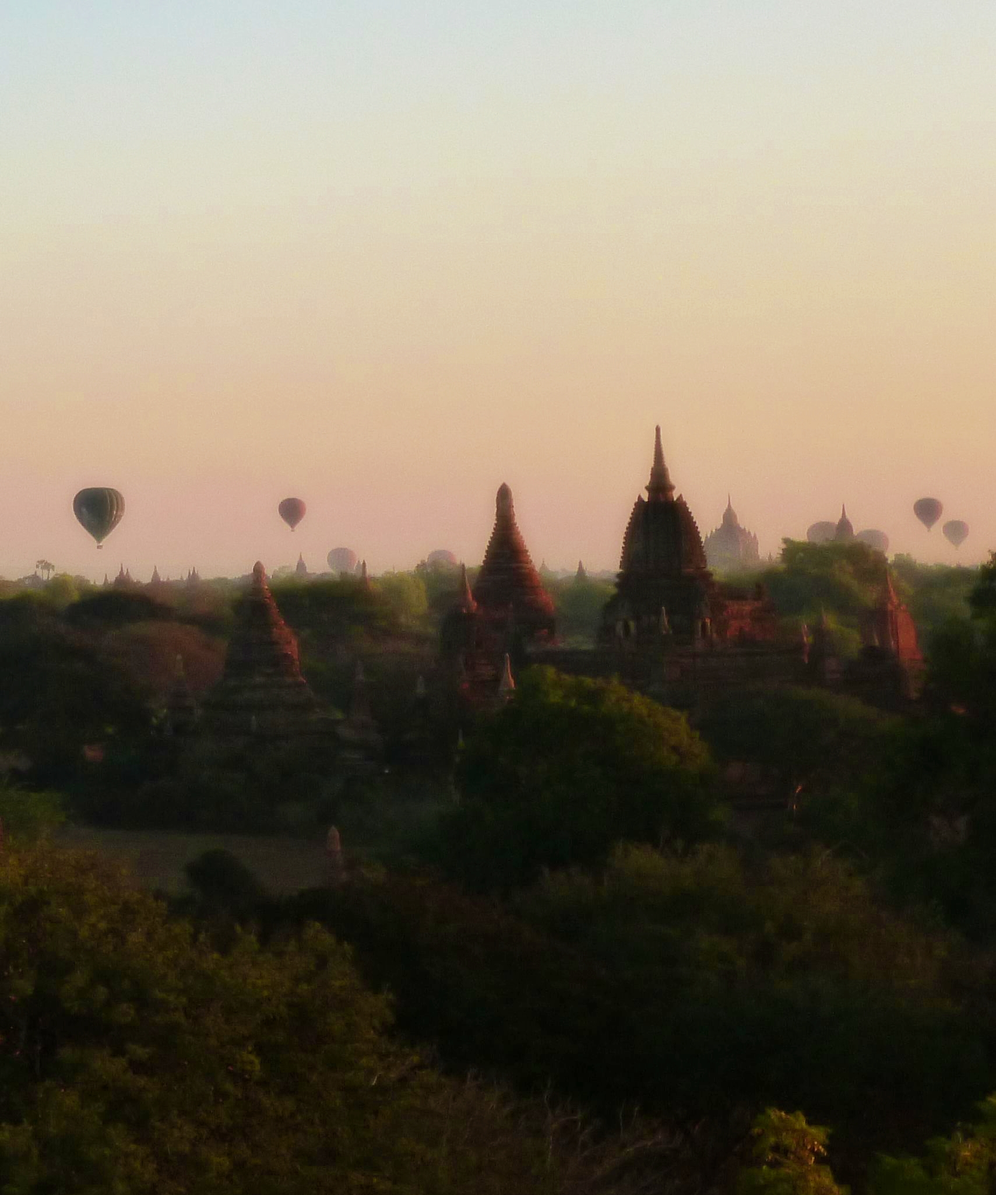
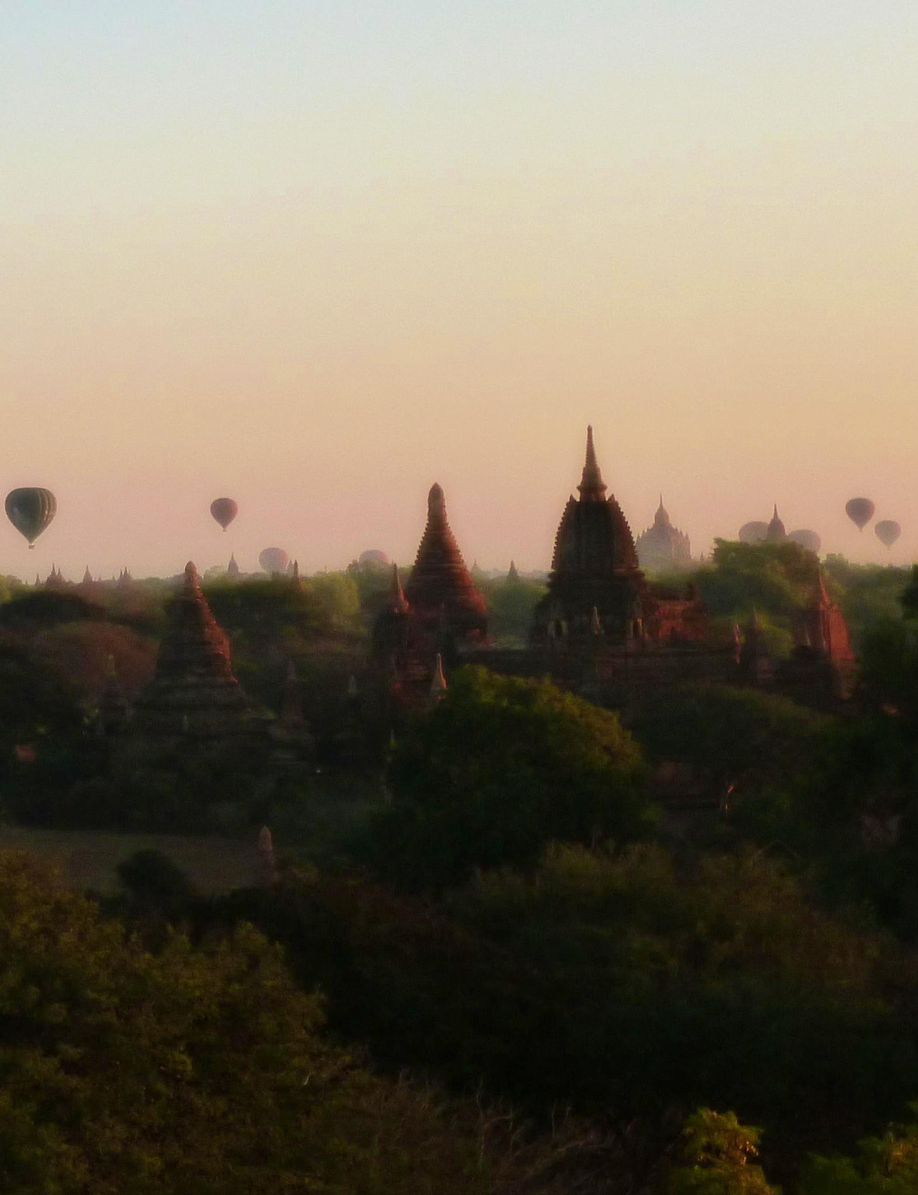
Edited Gallery page

diff --git a/gallery.html b/gallery.html
@@ -40,7 +40,7 @@
             <p class="text-center text-muted">Sunrise fishing in Inle Lake</p>
           </div>
           <div class="col-md-6 mb-4">
-            <img src="images/Kazbegi.png" class="img-fluid rounded-5 mb-3" />
+            <img src="images/Bagan2.jpg" class="img-fluid rounded-5 mb-3" />
             <h3 class="text-center m-0">Bagan 🇲🇲</h3>
             <p class="text-center text-muted">Sunrise over Bagan</p>
           </div>
@@ -50,22 +50,25 @@
             <p class="text-center text-muted">Hiking in Andorra</p>
           </div>
           <div class="col-md-6 mb-4">
-            <img src="images/Andorra.png" class="img-fluid rounded-5 mb-3" />
+            <img
+              src="images/Downtown Andorra.png"
+              class="img-fluid rounded-5 mb-3"
+            />
             <h3 class="text-center m-0">Andorra la Vella 🇦🇩</h3>
             <p class="text-center text-muted">Beautiful downtown Andorra</p>
           </div>
           <div class="col-md-6 mb-4">
             <img src="images/Sevan.png" class="img-fluid rounded-5 mb-3" />
-            <h3 class="text-center m-0">Lake Sevan 🇦🇲</h3>
+            <h3 class="text-center m-0">Lake Sevan🇦🇲</h3>
             <p class="text-center text-muted">
               Beautiful Lake and Monastery of Sevan
             </p>
           </div>
           <div class="col-md-6 mb-4">
-            <img src="images/Georgia.png" class="img-fluid rounded-5 mb-3" />
-            <h3 class="text-center m-0">Noravank Monastery 🇦🇲</h3>
+            <img src="images/KhorVirap.png" class="img-fluid rounded-5 mb-3" />
+            <h3 class="text-center m-0">Khor Virap 🇦🇲</h3>
             <p class="text-center text-muted">
-              One of the Beautiful Monastery in Armenia
+              One of the beautiful monasteries of Armenia
             </p>
           </div>
           <div class="col-md-6 mb-4">

diff --git a/index.html b/index.html
@@ -66,8 +66,8 @@ Some of my most cherished travel photographs of unforgettable moments and breath
  </div>
  <div class="container">
   <div class="row mb-5">
-    <div class="col"><div class="project-description"> <h2 class="mb-5">Kazbegi 🇬🇪</h2>
+    <div class="col"><div class="project-description"> <h2 class="mb-5">Vardzia 🇬🇪</h2>
 <p class="mb-5 text-muted">Far far away, behind the word mountains, far from the countries Vokalia and Consonantia, there live the blind texts. Separated they live in Bookmarksgrove right at the coast of the Semantics, a large language ocean. A small river named Duden flows by</p></html>
-<a href="" class="btn btn-branding-outline">Go to Gallery</a></div></div> <div class="col d-none d-lg-block"><img src="images/Kazbegi.png" class="img-fluid"></div>
+<a href="" class="btn btn-branding-outline">Go to Gallery</a></div></div> <div class="col d-none d-lg-block"><img src="images/Vardzia.png" class="img-fluid"></div>
   </div>
  </div>
